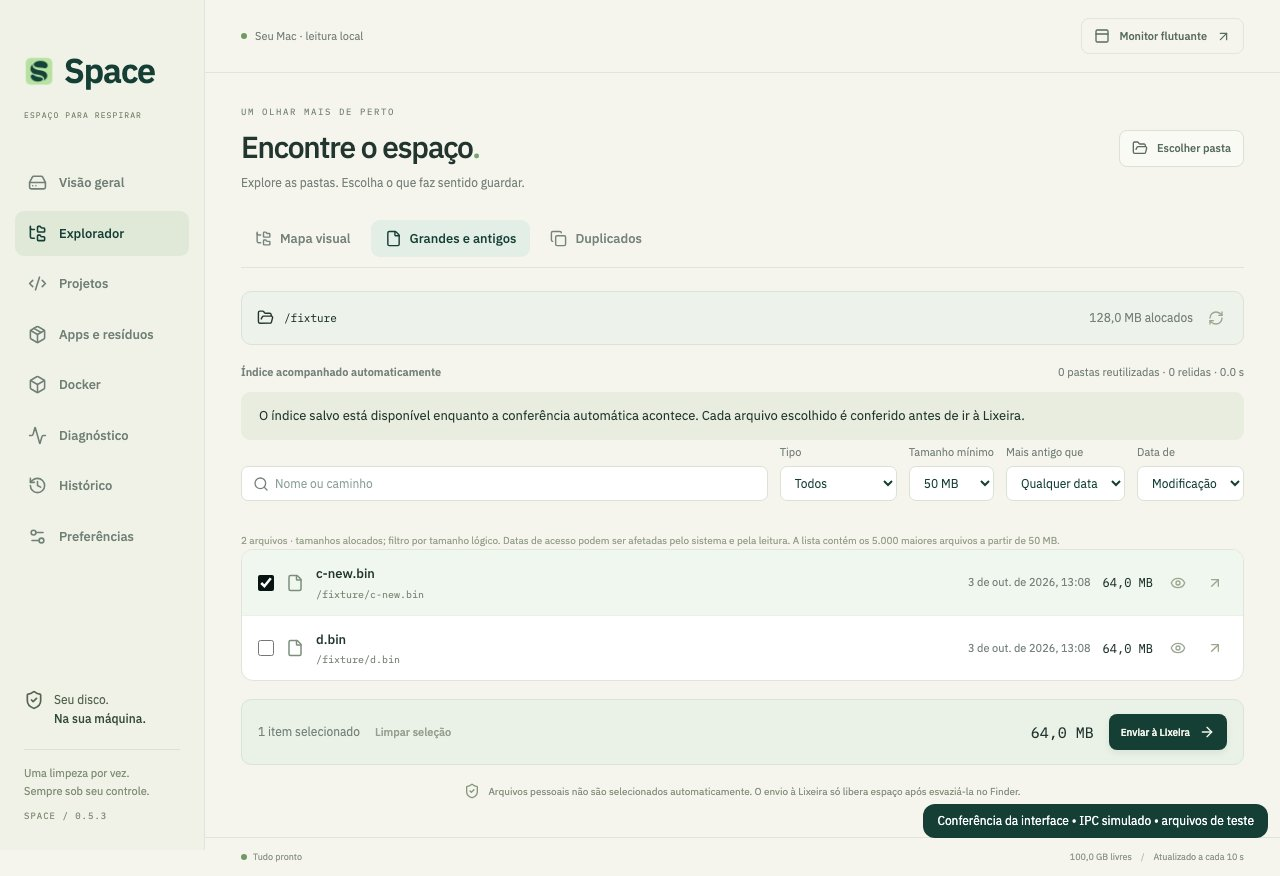
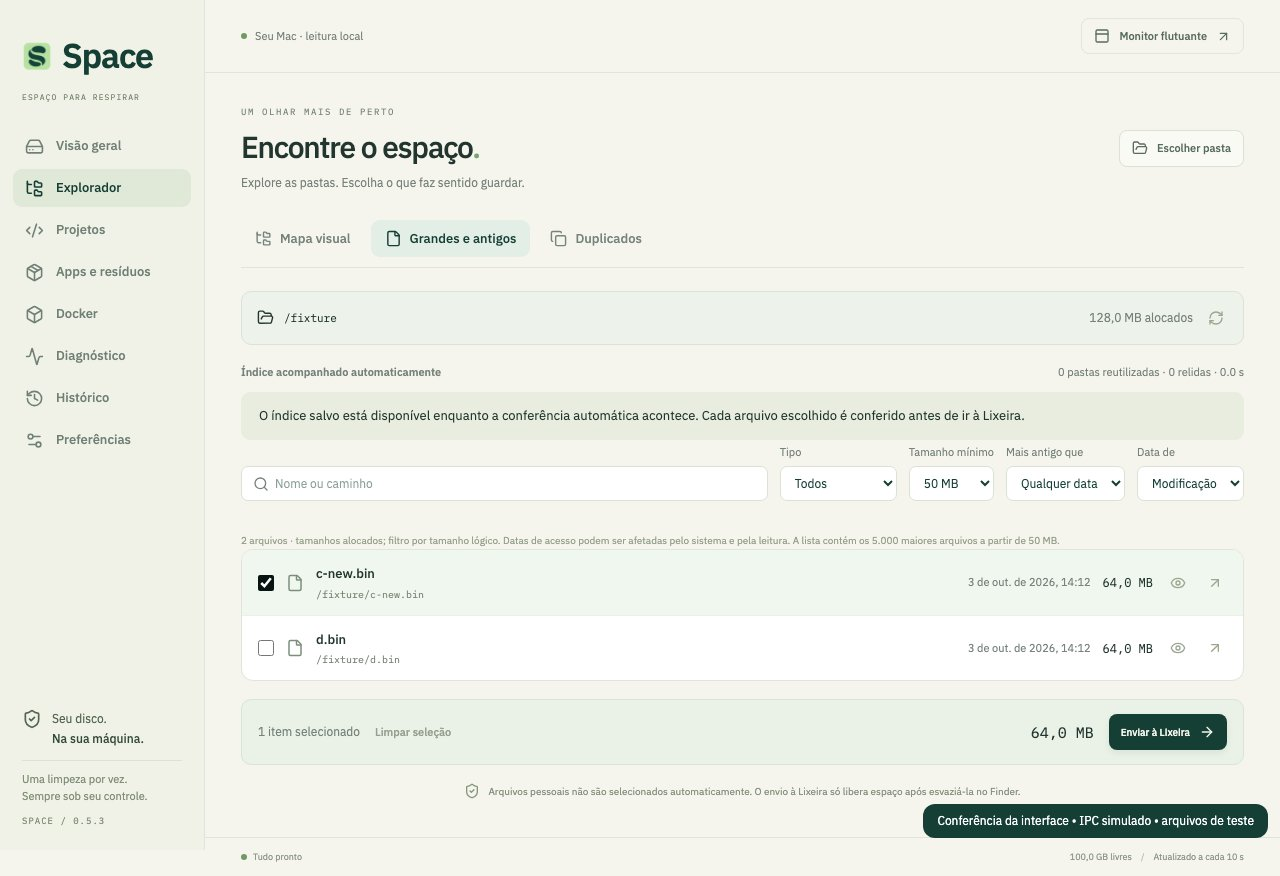
fix(styles): Resolve sidebar scrollbar overflow and apply light theme scrollbar styling
- Set color-scheme: light on :root to prevent dark theme user agent scrollbars
- Add custom thin scrollbars (6px width, #cbd3c5 thumb, transparent track) globally
- Optimize sidebar vertical padding and item heights so standard viewports (>= 620px) fit without scrolling
- Regenerate visual test screenshots

diff --git a/src/styles/layout.css b/src/styles/layout.css
@@ -8,7 +8,7 @@
   border-right: 1px solid var(--line);
   display: flex;
   flex-direction: column;
-  padding: 45px 24px 25px;
+  padding: 30px 22px 20px;
   background: #f0f2e8;
   position: fixed;
   top: 0;
@@ -32,7 +32,7 @@
   font-family: "IBM Plex Mono", monospace;
   font-size: 8px;
   letter-spacing: 1.1px;
-  margin: 13px 0 39px;
+  margin: 10px 0 24px;
   color: #728069;
   white-space: nowrap;
 }
@@ -48,7 +48,7 @@ nav a {
   gap: 12px;
   font-size: 13px;
   font-weight: 500;
-  padding: 13px 13px;
+  padding: 9px 12px;
   border-radius: 9px;
   color: #718076;
 }
@@ -76,10 +76,10 @@ nav a:hover {
 .sidebar-bottom p {
   font-size: 11px;
   color: #839078;
-  line-height: 1.7;
-  padding-top: 14px;
+  line-height: 1.6;
+  padding-top: 10px;
   border-top: 1px solid #dce2d3;
-  margin-top: 20px;
+  margin-top: 12px;
 }
 .version {
   font-family: "IBM Plex Mono", monospace;

diff --git a/src/styles/base.css b/src/styles/base.css
@@ -1,4 +1,5 @@
 :root {
+  color-scheme: light;
   font-family: "IBM Plex Sans", sans-serif;
   color: #22362f;
   background: #f5f5ee;
@@ -13,6 +14,22 @@
 }
 * {
   box-sizing: border-box;
+  scrollbar-width: thin;
+  scrollbar-color: #cbd3c5 transparent;
+}
+::-webkit-scrollbar {
+  width: 6px;
+  height: 6px;
+}
+::-webkit-scrollbar-track {
+  background: transparent;
+}
+::-webkit-scrollbar-thumb {
+  background: #cbd3c5;
+  border-radius: 9999px;
+}
+::-webkit-scrollbar-thumb:hover {
+  background: #9fae97;
 }
 body {
   margin: 0;

diff --git a/src/styles/components.css b/src/styles/components.css
@@ -1249,13 +1249,13 @@
   overflow-y: auto;
 }
 .sidebar nav {
-  gap: 5px;
+  gap: 4px;
 }
 .sidebar nav a {
-  min-height: 43px;
+  min-height: 38px;
 }
 .sidebar-bottom {
-  padding-top: 28px;
+  padding-top: 16px;
 }
 .tool-content {
   padding-bottom: 34px;
